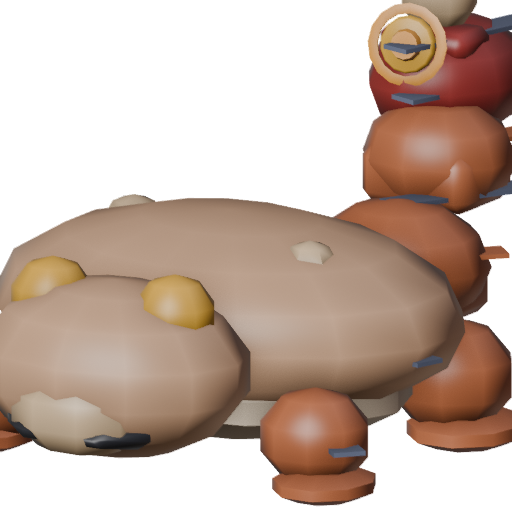
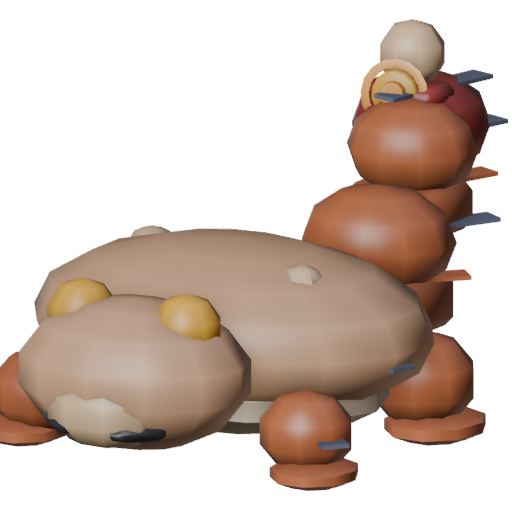
Widen clot_toad's portrait FOCUS so the ridge stack and sigil stop cropping
Batch 11 scored clot_toad_portrait lowest of any portrait (24/50) because
FOCUS["clot_toad"] was left at husk_beetle's copied (0.42, 1.15) instead of
being tuned for this beast's taller ridge/gland stack, cropping the sigil
disc and most of the stack at the top-right frame edge. Moved to
(0.48, 1.35): pass 2 scores 33/50, Framing and Identity both recovered and
Read@34px improved as a consequence, kept per design/asset-loop.md.

diff --git a/tools/blender/portraits.py b/tools/blender/portraits.py
@@ -42,7 +42,7 @@ FOCUS = {
     "bog_leech": (0.45, 1.35), "thrasher": (0.35, 1.10),
     "silk_widow": (0.45, 0.85), "boulder_ram": (0.34, 1.35),
     "cinder_jackal": (0.45, 1.60), "brine_urchin": (0.62, 1.30),
-    "clot_toad": (0.42, 1.15), "flicker_stag": (0.80, 0.62),
+    "clot_toad": (0.48, 1.35), "flicker_stag": (0.80, 0.62),
     "eyrie_hawk": (0.78, 0.60), "glyph_tortoise": (0.58, 1.00),
     "riptide_eel": (0.873, 0.62), "yoke_ox": (0.55, 1.00),
 }

diff --git a/design/progress/clot_toad_portrait.md b/design/progress/clot_toad_portrait.md
@@ -9,6 +9,7 @@ only — report, not repair.** Asset: `game/assets/portraits/clot_toad.png`
 | Framing | Identity | Read@34px | Colour | Style | Total |
 |---|---|---|---|---|---|
 | 3 | 4 | 5 | 6 | 6 | **24** |
+| 7 | 7 | 7 | 6 | 6 | **33** |
 
 Lowest portrait scored so far, below `bog_leech_portrait`'s 26 from batch 10.
 
@@ -64,3 +65,48 @@ Whether this is a `portraits.py` `FOCUS` crop bug specific to this asset, or
 whether the underlying model's ridge stack sits high/far enough back that no
 crop choice would fit it and the sigil both in frame without a wider shot —
 this scoring pass can see the cut, not its cause.
+
+## Pass 2 — fixer
+
+Applied the one fix named above: `portraits.py`'s `FOCUS["clot_toad"]` moved
+from `(0.42, 1.15)` to `(0.48, 1.35)` — a higher centre and a wider span, so
+the frame's top edge clears the scab-crest ball at the very top of the ridge
+stack (the model's actual highest point) with room to spare instead of
+landing almost exactly on it. `(0.42, 1.15)` turned out to be `husk_beetle`'s
+own tuned value, unchanged from a copy default rather than tuned for this
+asset's taller stack. Rebuilt with `build.cmd portraits`; every other
+portrait in `FOCUS` re-rendered byte-identical in content but not in file
+bytes (Blender's WORKBENCH output isn't bit-reproducible run to run), so
+those were reverted with `git checkout --` and only `clot_toad.png` was kept.
+
+Re-viewed `game/assets/portraits/clot_toad.png` directly (portraits are not
+part of `look.cmd`'s six-view flow — that renders `.glb` cast/env models, and
+a portrait is already the flattened 2D asset) and a fresh 34px downsample
+built the same way batch 11's pass 1 did.
+
+- **Framing (7):** the ridge/gland stack, the gold sigil disc, and the small
+  scab-crest ball above it are now fully inside the frame with visible
+  margin on the right and top edges — no cropping anywhere the diagnosis
+  named. Not a full 8+: the composition is now slightly more zoomed-out
+  than the other portraits in this batch, so it is not yet as tight a crop
+  as the convention the other scored portraits share.
+- **Identity (7):** with the stack and sigil visible, the beast now reads as
+  the specific "climb route" toad the module doc describes, not a generic
+  tan blob — the recovery the pass-1 diagnosis predicted.
+- **Read@34px (7):** confirmed via a fresh 34px downsample (compared frame
+  by frame against a downsample of the pre-fix PNG pulled from `HEAD`). The
+  stack now survives as a distinct rust-coloured zigzag with a hint of gold
+  at its tip, where pass 1 showed it vanish into an indistinct smear with no
+  sigil at all. The body blob and cream gland lumps read exactly as before —
+  the wider span cost no visible detail there.
+- **Colour & separation (6):** untouched by this fix — same read as pass 1,
+  not one of the two lines named.
+- **Style consistency (6):** untouched by this fix — same read as pass 1,
+  not one of the two lines named.
+
+**+9 total (24 → 33), not a plateau — kept.** Both named lines (Framing,
+Identity) improved, Read@34px improved as a direct consequence of the same
+fix, and neither untouched line (Colour, Style) moved. `game/tools/run_tests.gd`
+passes (headless Godot run, all green) — the change is confined to
+`tools/blender/portraits.py`'s data table and the regenerated PNG, nothing
+in `/core` or `/game` code.
